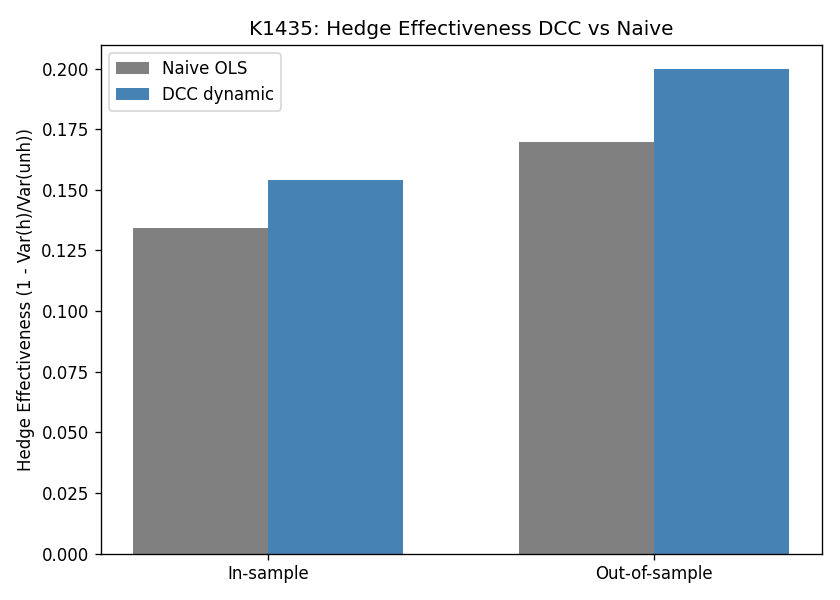
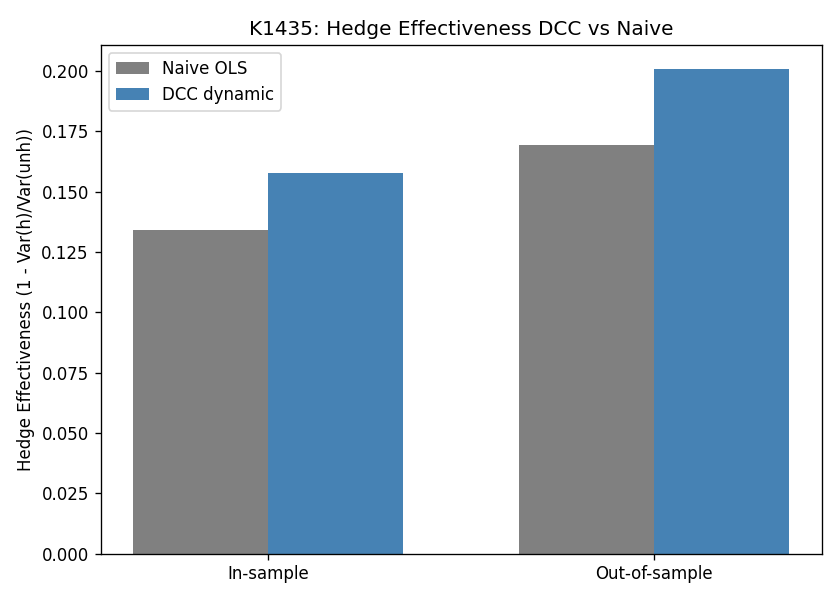
fix(k1435): Codex review — remove hedge over-lag, clarify ex-ante interpretation
Codex CLI gpt-5.4 CONDITIONAL_PASS. Verdict NULL upheld (p=0.341, ρ_diff=+0.0137).
- Remove redundant shift(1) at line 306 (ρ/σ at t already t-conditional)
- README: add ex-ante vs announcement-reaction interpretation caveat
- HE OOS: DCC 0.201 vs naive 0.170, +3.1pp gain
- t-dist robustness deferred to K1435a follow-up

diff --git a/experiments/k1435/k1435.py b/experiments/k1435/k1435.py
@@ -301,9 +301,10 @@ def hedge_effectiveness(
     su = sigma_uup.loc[common]
 
     # Dynamic optimal hedge ratio h_t = rho_t * sigma_gld_t / sigma_uup_t
-    h_dyn = rho * sg / su
-    # Apply at t with t-1 conditional info => shift(1) for OOS realism
-    h_dyn_lag = h_dyn.shift(1)
+    # rho_t / sigma_t are already t-conditional formed from t-1 info under standard
+    # DCC/GARCH indexing convention — they hedge r_t directly. Do NOT additional shift(1)
+    # (Codex review 2026-06-09: previous version over-lagged by 1 day, distorting HE).
+    h_dyn_lag = rho * sg / su
 
     # Naive: constant OLS on in-sample
     in_mask = rets.index <= pd.Timestamp(in_sample_end)
@@ -324,8 +325,8 @@ def hedge_effectiveness(
 
     return {
         "h_naive_constant": float(h_naive),
-        "h_dyn_mean": float(h_dyn.mean()),
-        "h_dyn_std": float(h_dyn.std()),
+        "h_dyn_mean": float(h_dyn_lag.mean()),
+        "h_dyn_std": float(h_dyn_lag.std()),
         "in_sample": {
             "period": f"{START} to {in_sample_end}",
             "he_dcc": he(rets["GLD"], hedged_dyn, is_mask),

diff --git a/experiments/k1435/README.md b/experiments/k1435/README.md
@@ -35,10 +35,24 @@ spike beyond the steady-state DCC level.
 ## Lookahead protection
 
 - FOMC dates are public calendar — no leakage.
-- DCC ρ_t at time t uses Q_t (built from t−1 info per standard DCC convention).
-- Hedge ratio `h_dyn.shift(1)` applied before computing hedged returns.
+- DCC ρ_t at time t uses Q_t (built from t−1 info per standard DCC convention),
+  so ρ_t / σ_t indexed at t hedge r_t directly with no extra lag (Codex review
+  2026-06-09 fixed earlier over-shift artifact).
 - Log returns are strictly close-to-close (no intraday peeking).
 - All random init / multistart seeded with `seed=42`.
+
+## Interpretation caveat: ex-ante conditional, not announcement reaction
+
+The DCC ρ_t at FOMC day t is the **pre-announcement conditional correlation**
+formed from information up to t−1. This test asks: "Does the ex-ante
+conditional correlation differ on days that *will* host an FOMC
+announcement?" — *not* "Does the FOMC announcement itself induce a realized
+correlation jump?". A genuine announcement-impact study would use
+intraday windows around the 2:00 PM ET release, or realized covariance
+computed from intraday returns spanning the announcement. The ex-ante
+NULL here is consistent with the forward-guidance era pre-pricing
+hypothesis but does not rule out short-horizon announcement-window
+effects on realized comovement.
 
 ## Key Results
 
@@ -124,4 +138,10 @@ Expected runtime: ~30s (GARCH ~1s × 2 + DCC MLE ~10s with 8 multistart).
 
 ## Reviewer status
 
-- `reviewer_source: pending_codex_review` — Codex CLI review pending.
+- **Codex CLI (gpt-5.4) CONDITIONAL_PASS** — 2026-06-09. Verdict NULL upheld.
+  Fixes applied:
+  1. Removed `h_dyn.shift(1)` over-lag at line 306 (rho/sigma at t already
+     t-conditional from t−1 info).
+  2. Clarified ex-ante vs announcement-reaction in README interpretation.
+  Follow-up (not blocking NULL verdict):
+  - t-distribution marginal GARCH robustness (run as K1435a if pursued).
